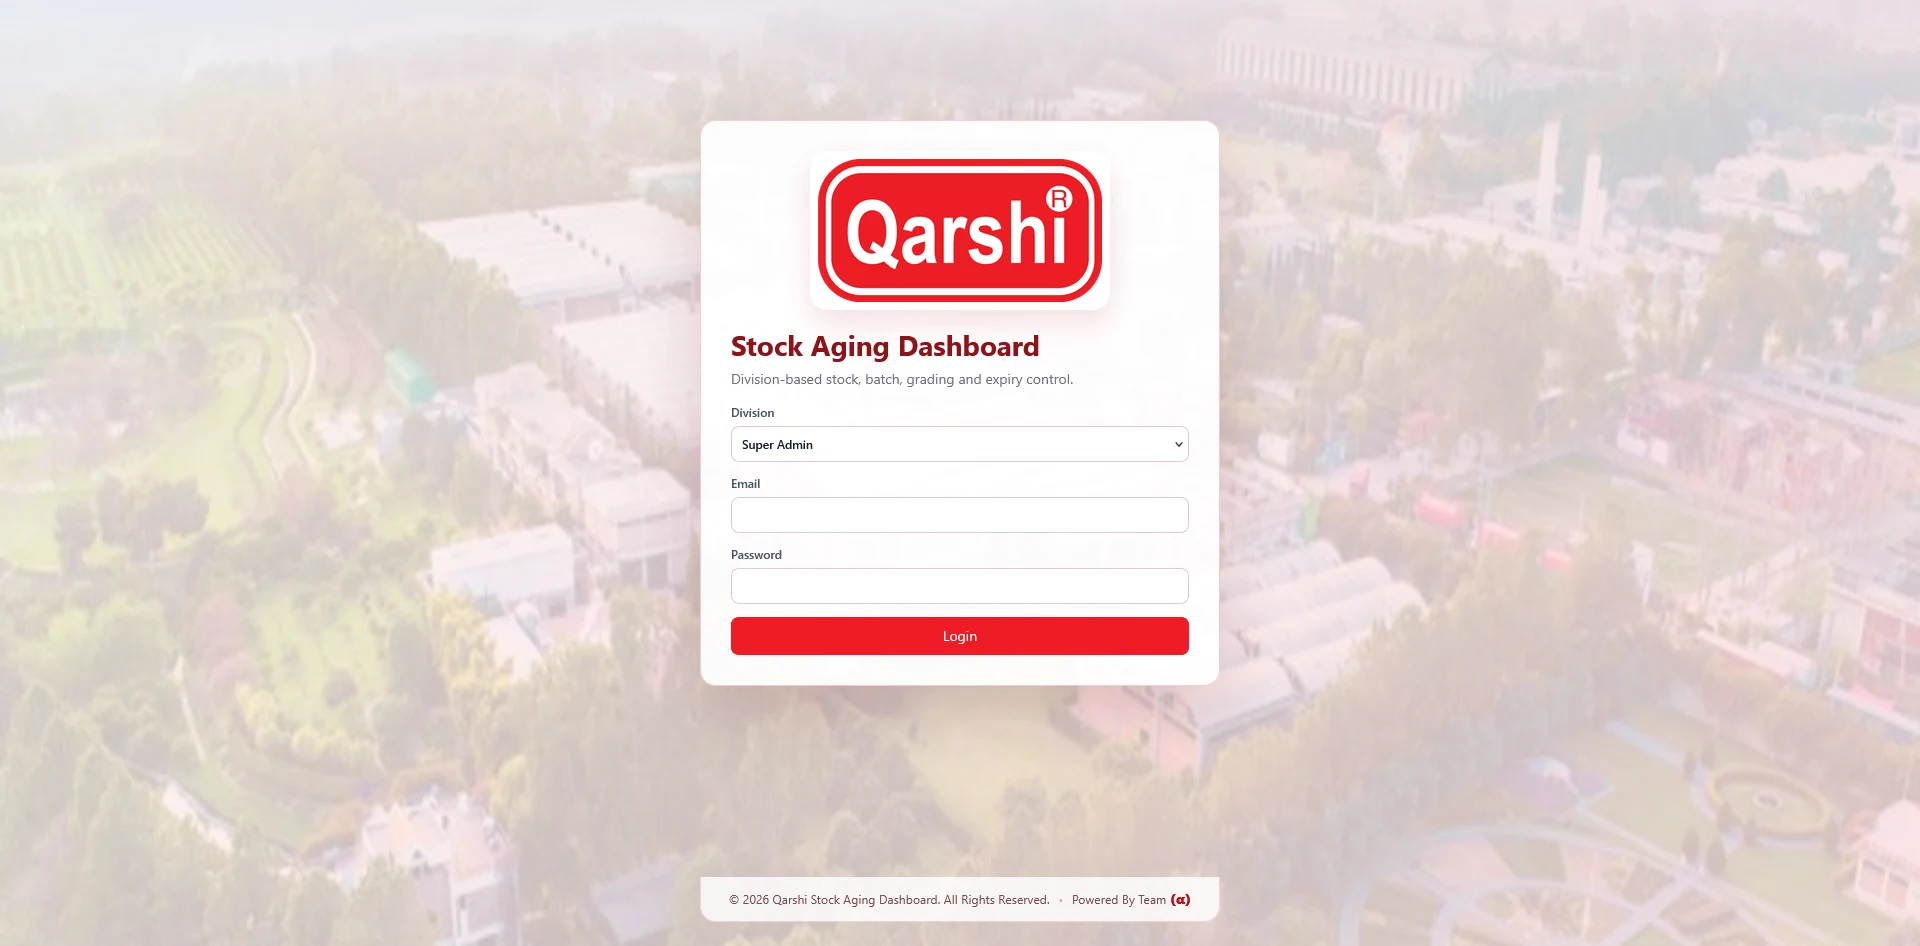
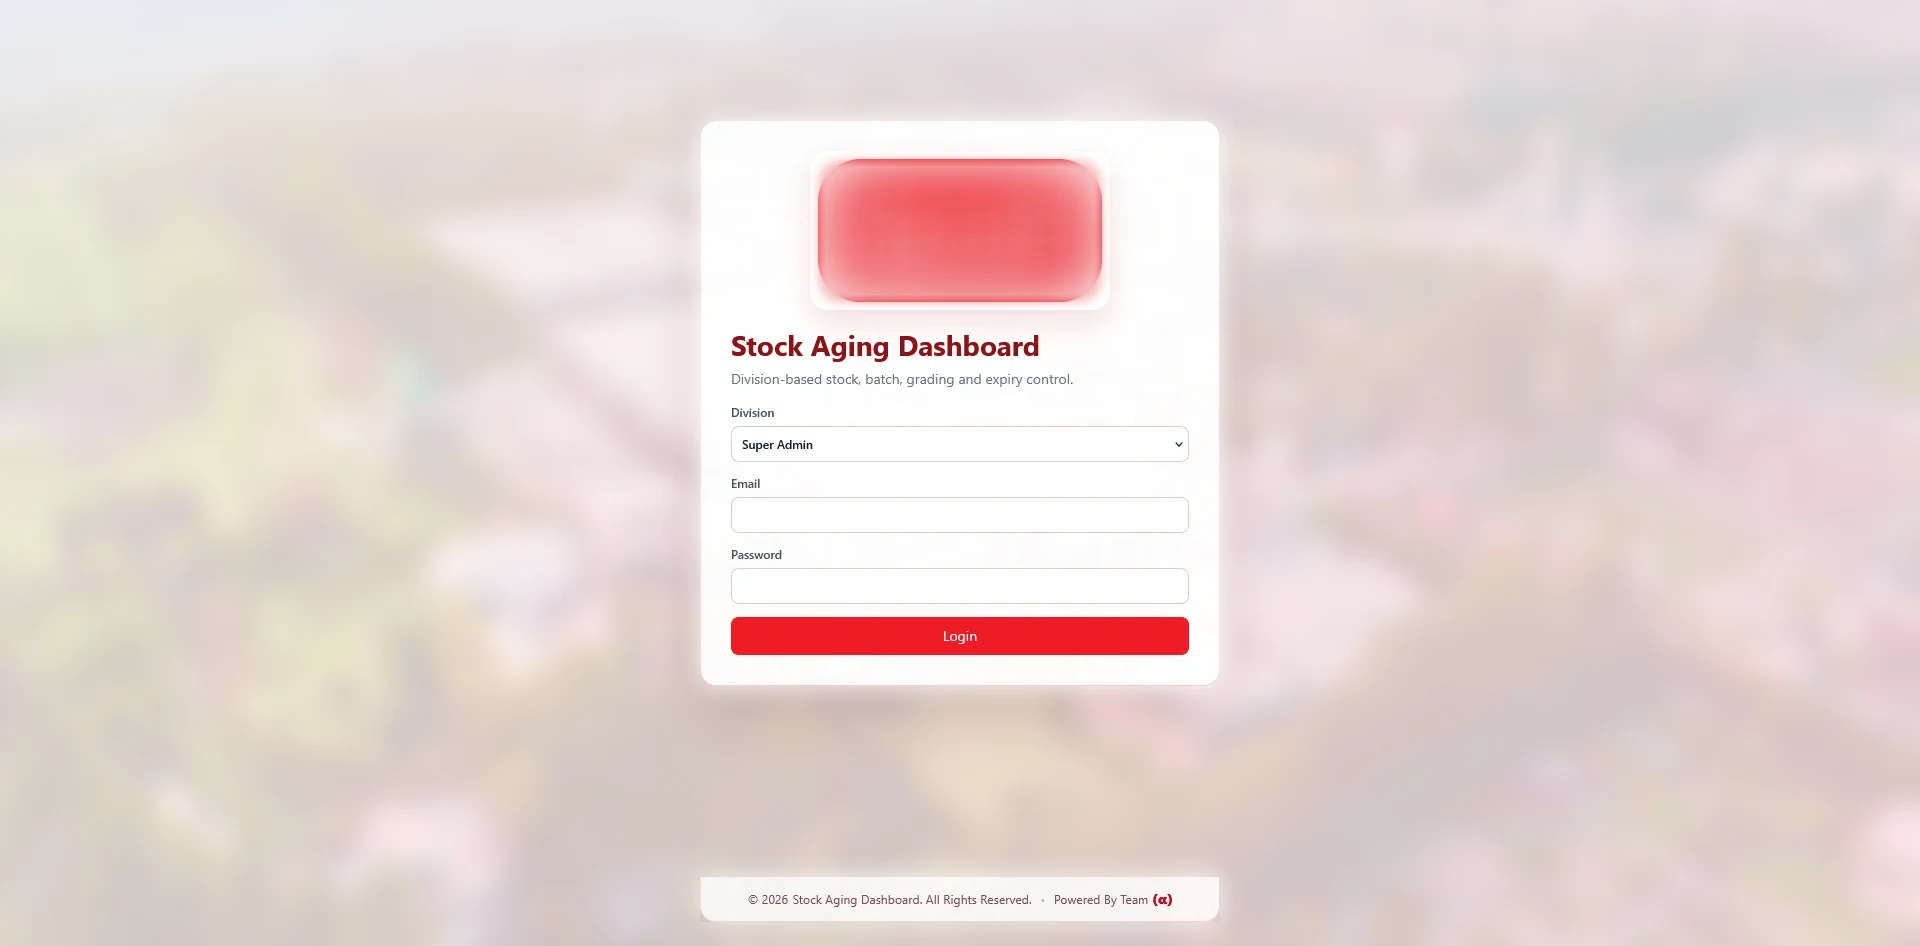
Remove organization branding from projects
Drop the organization name from project copy and tags, blur its logo
in the screenshots, and remove the name from their footers. Also blur
SKU prefixes and the login background photo.

diff --git a/src/data/portfolio.ts b/src/data/portfolio.ts
@@ -102,7 +102,7 @@ export const projects: Project[] = [
     id: 'stock-ageing-dashboard',
     title: 'Stock Ageing Dashboard',
     genre: 'Inventory • Dashboard',
-    logline: 'A finished goods stock ageing dashboard for Qarshi, with division-based stock, batch, grading and expiry control.',
+    logline: 'A finished goods stock ageing dashboard with division-based stock, batch, grading and expiry control.',
     stack: [],
     build: [],
     features: [
@@ -144,7 +144,7 @@ export const projects: Project[] = [
     id: 'qr-code-plant-nursery',
     title: 'QR Code and Plant Nursery',
     genre: 'QR Code • Plant Nursery',
-    logline: 'A plant nursery system for Qarshi Botanical Garden & Nursery, with a QR code for every plant plus sales, purchase, supplier and stock management.',
+    logline: 'A plant nursery system with a QR code for every plant plus sales, purchase, supplier and stock management.',
     stack: [],
     build: [],
     features: [
@@ -395,16 +395,16 @@ export const seasons: Season[] = [
       {
         code: 'S04 E01',
         title: 'Stock Ageing Dashboard',
-        description: 'A finished goods stock ageing dashboard for Qarshi, with division-based stock, batch, grading and expiry control.',
-        tags: ['Dashboard', 'Inventory', 'Qarshi'],
+        description: 'A finished goods stock ageing dashboard with division-based stock, batch, grading and expiry control.',
+        tags: ['Dashboard', 'Inventory'],
         runtime: 'Original',
         palette: amber,
       },
       {
         code: 'S04 E02',
         title: 'QR Code and Plant Nursery',
-        description: 'A plant nursery system for Qarshi Botanical Garden & Nursery, with a QR code for every plant plus sales, purchase, supplier and stock management.',
-        tags: ['QR Code', 'Plant Nursery', 'Qarshi'],
+        description: 'A plant nursery system with a QR code for every plant plus sales, purchase, supplier and stock management.',
+        tags: ['QR Code', 'Plant Nursery'],
         runtime: 'Original',
         palette: jade,
       },
@@ -448,7 +448,7 @@ export type TopPick = { label: string; title: string; detail: string; palette: P
 
 export const topPicks: TopPick[] = [
   { label: 'Primary stack', title: 'PHP Frameworks', detail: 'with JavaScript, Angular and React', palette: amber },
-  { label: 'The Originals', title: 'Stock Ageing Dashboard', detail: 'Finished goods stock for Qarshi', palette: crimson },
+  { label: 'The Originals', title: 'Stock Ageing Dashboard', detail: 'Finished goods stock control', palette: crimson },
   { label: 'The Originals', title: 'QR Code and Plant Nursery', detail: 'A QR code for every plant', palette: jade },
   { label: 'The Originals', title: 'Plants Treatment System', detail: 'Managing plant treatments', palette: ocean },
   { label: 'AI', title: 'AI Prompts', detail: 'and AI Automations', palette: violet },
